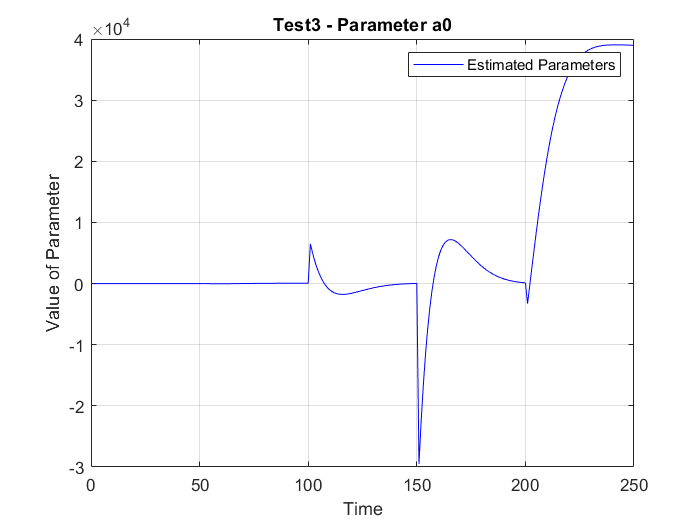
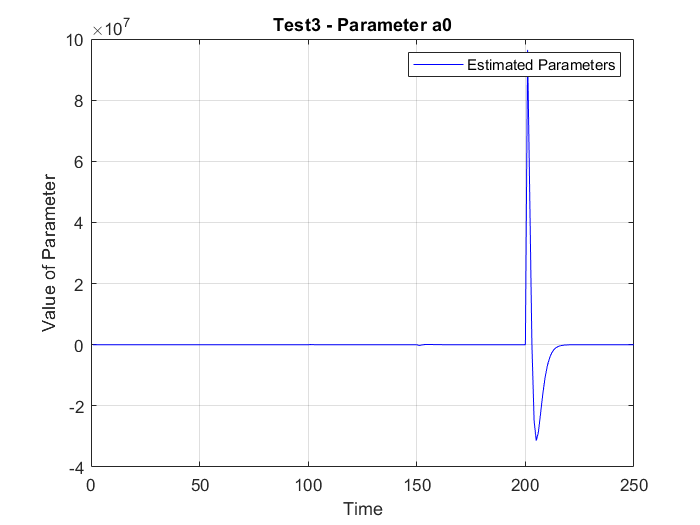
Corrections to code

diff --git a/source/RLS_Estimation_Object.h b/source/RLS_Estimation_Object.h
@@ -49,9 +49,9 @@ namespace RLS {
 			for (int i = 1; i < N; i++) {
 				phi_matrix.col(i) = phi_matrix.col(i - 1) * num_update;
 			}
-
+			phi_matrix.print();
 			
-			K = (1. / lambda) * P_matrix * trans(phi_matrix) * (phi_matrix * (1. / lambda) * P_matrix * trans(phi_matrix) + 1.).i();
+			K = P_matrix * trans(phi_matrix) * (phi_matrix * P_matrix * trans(phi_matrix) + lambda).i();
 
 
 			//CALCULATION OF  NEW PARAMETERS//
@@ -59,7 +59,7 @@ namespace RLS {
 			theta_matrix = theta_matrix + K * (data - phi_matrix * theta_matrix); //Output is in ascending order , ie: a0 + a1*t + a2*t^2.....
 
 			//CALCULATION OF NEW COVARIANCE MATRIX//
-			P_matrix = ((1. / lambda) * P_matrix - K * phi_matrix * P_matrix);
+			P_matrix = ((1. / lambda) * P_matrix - (1./lambda) * K * phi_matrix * P_matrix);
 
 			num_update += 1;
 		};

diff --git a/examples/RLS_Estimation_Visual_studio/RLS_testing.cpp b/examples/RLS_Estimation_Visual_studio/RLS_testing.cpp
@@ -50,7 +50,7 @@ int main() {
 	}
 
 	for (int i = 200; i < 250; i++) {
-		Y[i] = (i-198)*(i-198) + 2*(i-198) + 1.; //OUTPUTS OF SYSTEM
+		Y[i] = pow(i,2) + 2.*i + 1.; //OUTPUTS OF SYSTEM
 		X[i] = counter; //INPUTS OF SYSTEM
 		counter += 1.;
 	}

diff --git a/examples/RLS_testing.cpp b/examples/RLS_testing.cpp
@@ -50,7 +50,7 @@ int main() {
 	}
 
 	for (int i = 200; i < 250; i++) {
-		Y[i] = (i-198)*(i-198) + 2*(i-198) + 1.; //OUTPUTS OF SYSTEM
+		Y[i] = pow(i,2) + 2.*i + 1.; //OUTPUTS OF SYSTEM
 		X[i] = counter; //INPUTS OF SYSTEM
 		counter += 1.;
 	}
